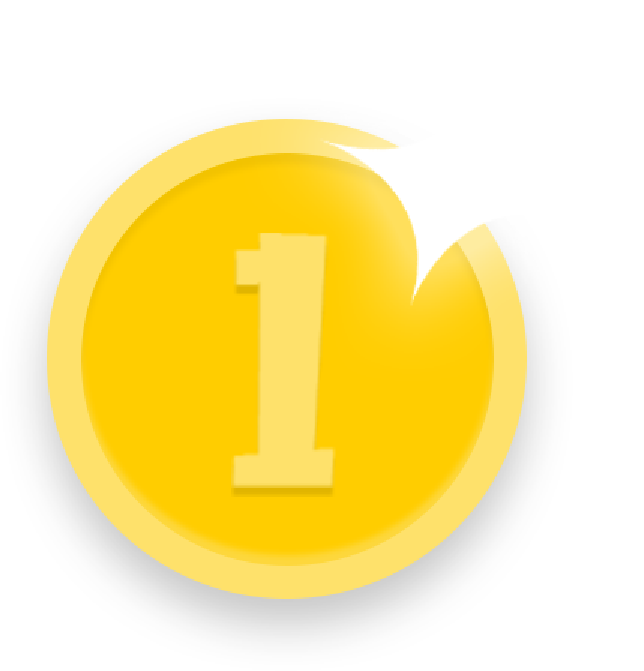
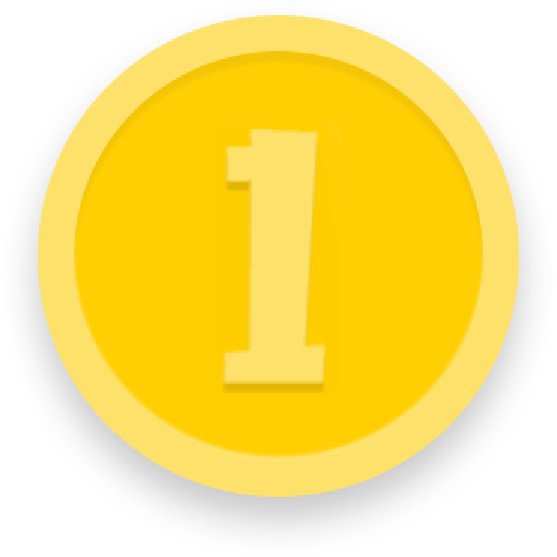
origin version

diff --git a/voting/css/signIn.css b/voting/css/signIn.css
@@ -2,40 +2,76 @@
   width: 70%;
   height: 40%;
   margin: 0 auto;
-  padding-top: 5%;
+  padding-top: 20%;
   text-align: center;
+}
+
+.icon {
+  width: 70%;
+  height: 70%;
+  margin: 0 auto;
+  position: relative;
 }
 
 .icon-coin {
   display: block;
-  width: 88%;
-  height: 82%;
-  margin: 0 auto;
-  background: url('../pic/coin.png') no-repeat;
-  background-size: 88% 100%;
-  background-position: 90% center;
+  width: 100%;
+  height: 100%;
+  background: url('../pic/coin.png') no-repeat center center;
+  background-size: contain;
  }
 
+.shining {
+  width: 60%;
+  height: 60%;
+  position: absolute;
+  background: url('../pic/shining.png') no-repeat center center;
+  background-size: contain;
+  z-index: 999;
+  top: -10.7%;
+  right: -9%;
+}
+
 .rule {
+  display: block;
+  margin-top: 1rem;
   font-family: Microsoft YaHei;
   font-size: 1.5rem;
   color: #c3c3c3;
 }
 
-.sign button {
-  display: block;
+.signInButton {
   width: 85%;
   height: 20%;
+  position: relative;
+  margin: 30% auto 5%;
+}
+
+.signInButton button {
+  display: block;
+  width: 100%;
+  height: 100%;
   outline: none;
   color: #fff;
   font-family: Microsoft YaHei;
   font-size: 2.2rem;
   background-color: #fbd538;
   border: 0;
-  border-radius: 5px;
-  margin: 30% auto 5%;
+  border-radius: 0.7rem;
 }
 
 button.success {
   background-color: #fee16b;
+}
+
+.bonus-point {
+  display: none;
+  position: absolute;
+  width: 3.5rem;
+  height: 3.5rem;
+  z-index: 999;
+  background: url('../pic/addOnePoint.png') no-repeat center center;
+  background-size: contain;
+  top: -1rem;
+  right: -1rem;
 }

diff --git a/voting/css/menu.css b/voting/css/menu.css
@@ -1,6 +1,5 @@
 .menu {
   width: 100%;
-  height: 5.3rem;
   position: absolute;
   background-color: #fff;
   box-shadow: 0 -0.1rem #dbdbe0;
@@ -15,48 +14,48 @@
 
 .icon-vote {
   width: 2.7rem;
-  height: 5rem;
+  height: 6rem;
   display: inline-block;
   background: url('../pic/vote.png') no-repeat center center;
   background-size: contain;
 }
 
 .icon-vote-tap {
-  width: 2.7rem;
-  height: 5rem;
+  width: 100%;
+  height: 6rem;
   display: inline-block;
   background: url('../pic/vote_afterclick.png') no-repeat center center;
-  background-size: 6rem 7.2rem;
+  background-size: 6rem 7.4rem;
 }
 
 .icon-question {
   width: 2.7rem;
-  height: 5rem;
+  height: 6rem;
   display: inline-block;
   background: url('../pic/question.png') no-repeat center center;
   background-size: contain;
 }
 
 .icon-question-tap {
-  width: 2.7rem;
-  height: 5rem;
+  width: 100%;
+  height: 6rem;
   display: inline-block;
   background: url('../pic/question_afterclick.png') no-repeat center center;
-  background-size: 6rem 7.3rem;
+  background-size: 6.2rem 7.5rem;
 }
 
 .icon-user {
   width: 2.5rem;
-  height: 5rem;
+  height: 6rem;
   display: inline-block;
   background: url('../pic/user.png') no-repeat center center;
   background-size: contain;
 }
 
 .icon-user-tap {
-  width: 2.7rem;
-  height: 5rem;
+  width: 100%;
+  height: 6rem;
   display: inline-block;
   background: url('../pic/user_afterclick.png') no-repeat center center;
-  background-size: 6rem 7.2rem;
+  background-size: 5.7rem 7.5rem;
 }

diff --git a/voting/css/display.css b/voting/css/display.css
@@ -69,7 +69,8 @@
   background-size: 8rem 8rem;
   cursor: pointer;
   visibility: hidden;
-   transition: visibility 0.1s linear, transform 0.2s linear;
+  transition: visibility 0.1s linear, transform 0.2s linear;
+  -webkit-transition: visibility 0.1s linear, transform 0.2s linear;
 }
 
 .questionnaire-button {
@@ -82,19 +83,22 @@
   background-size: 8rem 8rem;
   cursor: pointer;
   visibility: hidden;
-   transition: visibility 0.1s linear, transform 0.2s linear;
+  transition: visibility 0.1s linear, transform 0.2s linear;
+  -webkit-transition: visibility 0.1s linear, transform 0.2s linear;
 }
 
 .arise-vote-button {
   visibility: visible;
   transform: translate(0, -12.5rem);
-  transition: visibility 0.1s linear, transform 0.1s linear;
+  transition: visibility 0.1s linear, transform 0.2s linear;
+  -webkit-transition: visibility 0.1s linear, transform 0.2s linear;
 }
 
 .arise-questionnaire-button {
   visibility: visible;
   transform: translate(0, -5.8rem);
-  transition: visibility 0.1s linear, transform 0.1s linear;
+  transition: visibility 0.1s linear, transform 0.2s linear;
+  -webkit-transition: visibility 0.1s linear, transform 0.2s linear;
 }
 
 .mask {

diff --git a/voting/JS/script.js b/voting/JS/script.js
@@ -1,7 +1,7 @@
 window.onload = function () {
   var deviceWidth = document.body.clientHeight
   var main = document.getElementsByClassName('main')[0]
-  main.style.minHeight = deviceWidth + 'px'
+  main.style.height = deviceWidth + 'px'
   button()
   signIn()
 }
@@ -40,9 +40,11 @@ function button () {
 
 function signIn() {
   var signIn = document.getElementsByTagName('button')[0]
+  var addOnePoint = document.getElementsByClassName('bonus-point')[0]
   if (!signIn) return false 
   signIn.onclick = function () {
-    signIn.innerHTML = '签到成功'
+    signIn.innerHTML = '签到成功!'
     signIn.setAttribute('class', 'success')
+    addOnePoint.style.display = 'block'
   }
 }

diff --git a/voting/signIn.html b/voting/signIn.html
@@ -11,9 +11,15 @@
 <body>
   <div class="main">
     <div class="sign">
-      <span class="icon-coin"></span>
+      <div class="icon">
+        <span class="icon-coin"></span>
+        <span class="shining"></span>
+      </div>
       <span class="rule">(签到成功即可增加1积分)</span>
-      <button>签到</button>
+      <div class="signInButton">
+        <button>签到</button>
+        <span class="bonus-point"></span>
+      </div>
     </div>
     <div class="menu">
       <ul>

diff --git a/voting/questionnaire.html b/voting/questionnaire.html
@@ -63,6 +63,6 @@
       <div class="questionnaire-button"><a href="release_questionnaire.html"></a></div>
       <div class="button"></div>
     </div>
-  <script src="./JS/script.js"></script>
+  <script src="JS/script.js"></script>
 </body>
 </html>

diff --git a/voting/vote.html b/voting/vote.html
@@ -67,6 +67,6 @@
     <div class="questionnaire-button"><a href="release_questionnaire.html"></a></div>
     <div class="button"></div>
   </div>
-  <script src="./JS/script.js"></script>
+  <script src="JS/script.js"></script>
 </body>
 </html>

diff --git a/voting/release_questionnaire.html b/voting/release_questionnaire.html
@@ -43,5 +43,6 @@
       </ul>
     </div>
   </div>
+  <script src="JS/script.js"></script>
 </body>
 </html>

diff --git a/voting/release_vote.html b/voting/release_vote.html
@@ -43,5 +43,6 @@
       </ul>
     </div>
   </div>
+  <script src="JS/script.js"></script>
 </body>
 </html>
